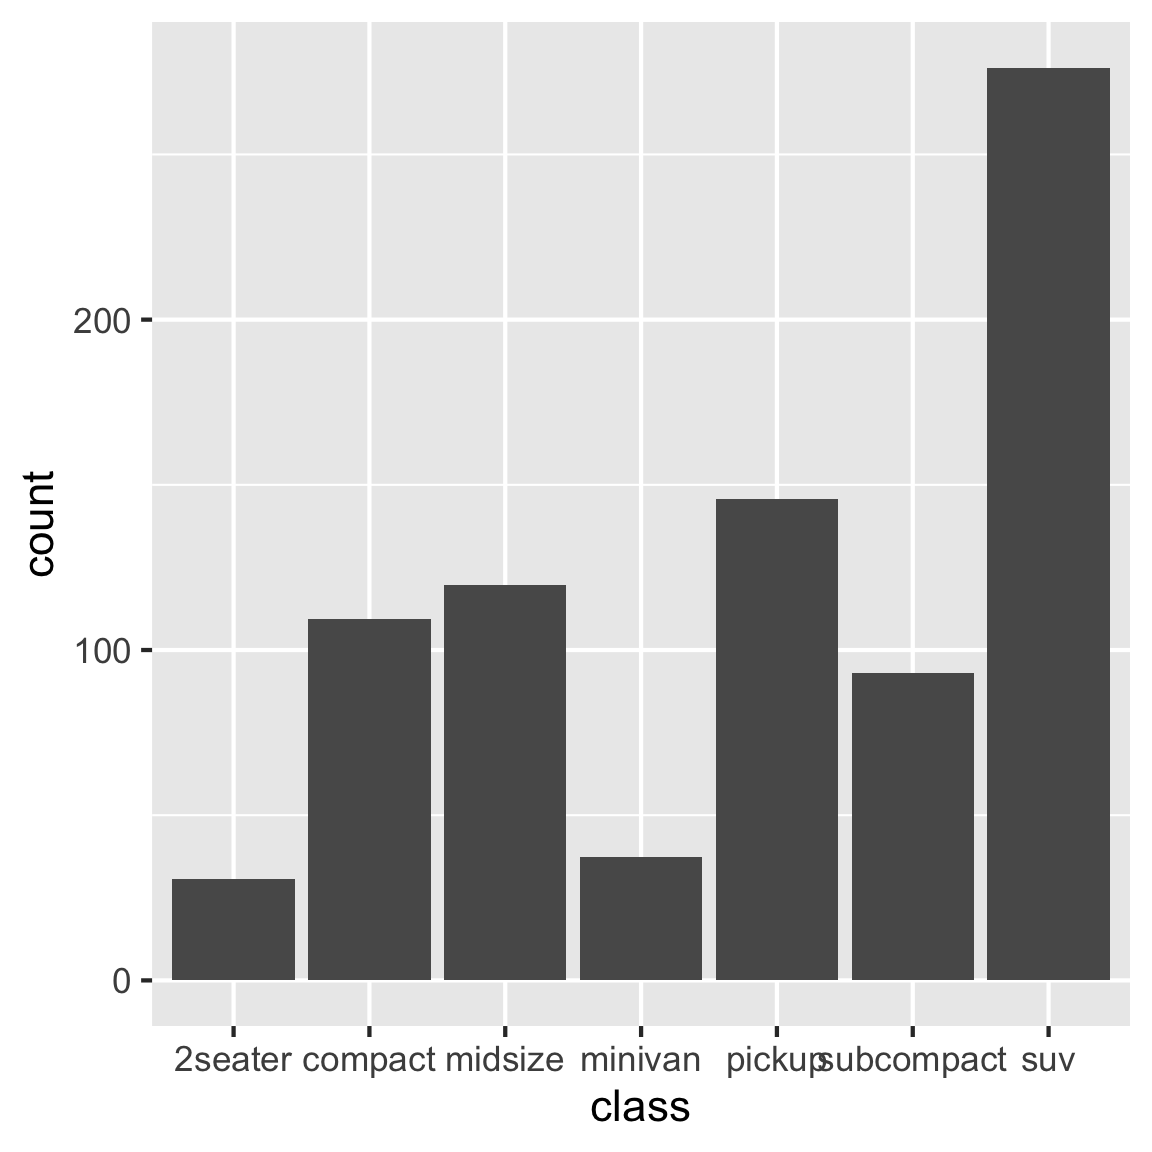
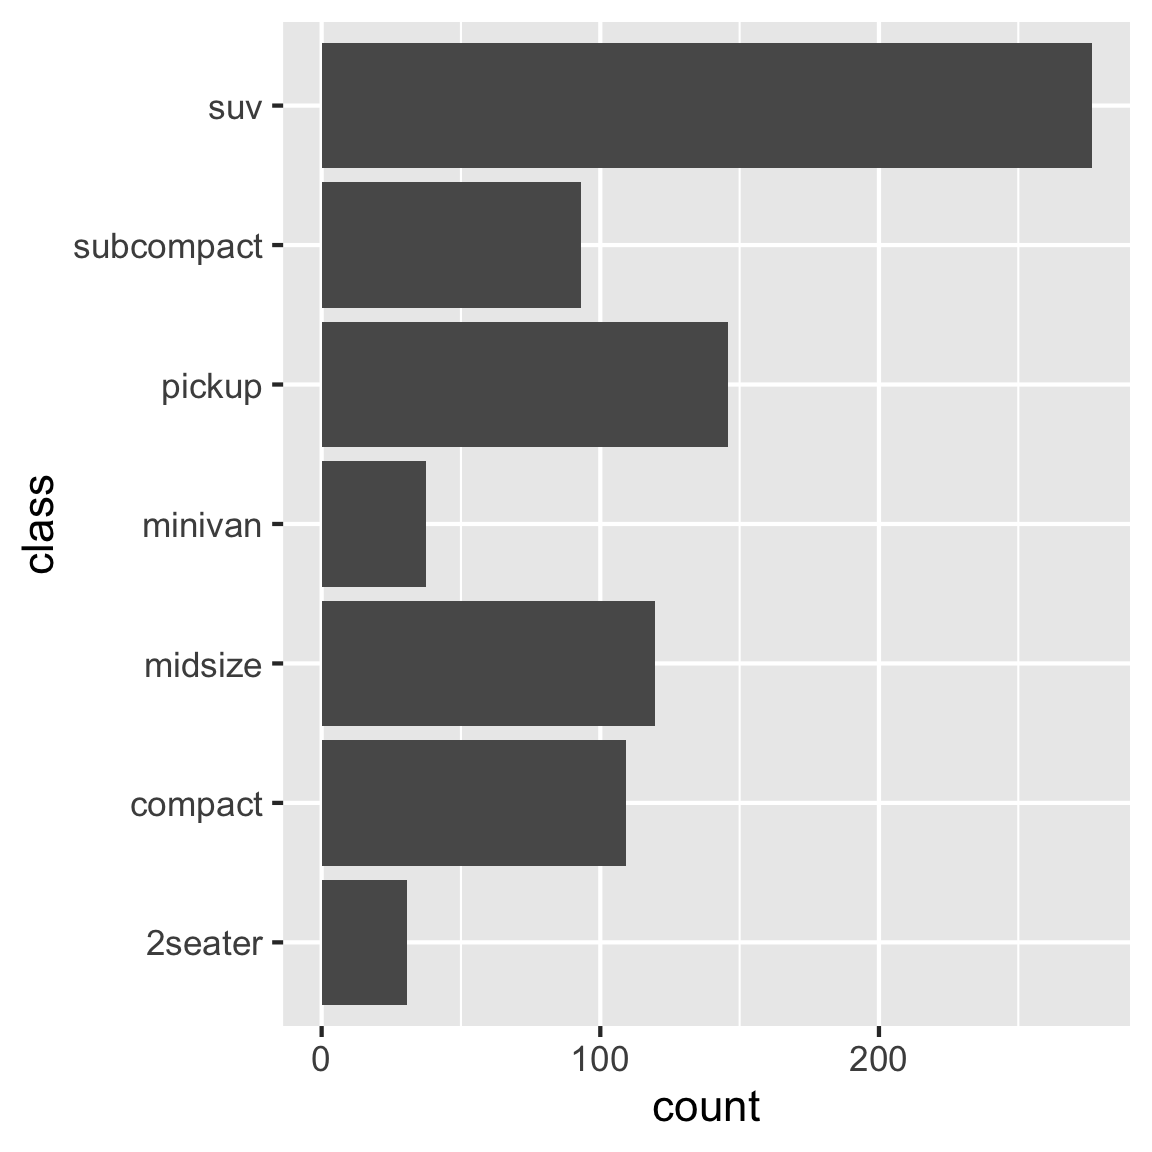
start on barchart

diff --git a/example.md b/example.md
@@ -69,9 +69,12 @@ for TRUE and around 45 for FALSE.
 ### Barchart
 
     ggplot(mpg, aes(x=class, weight = displ)) +
-      geom_bar()
+      geom_bar() +
+      coord_flip()
 
 <img src="figures/barchart-1.png" width="40%" />
+
+**Alt text**: Bar chart of numbers of different classes of vehicles.
 
 ### Animated visualisation
 
